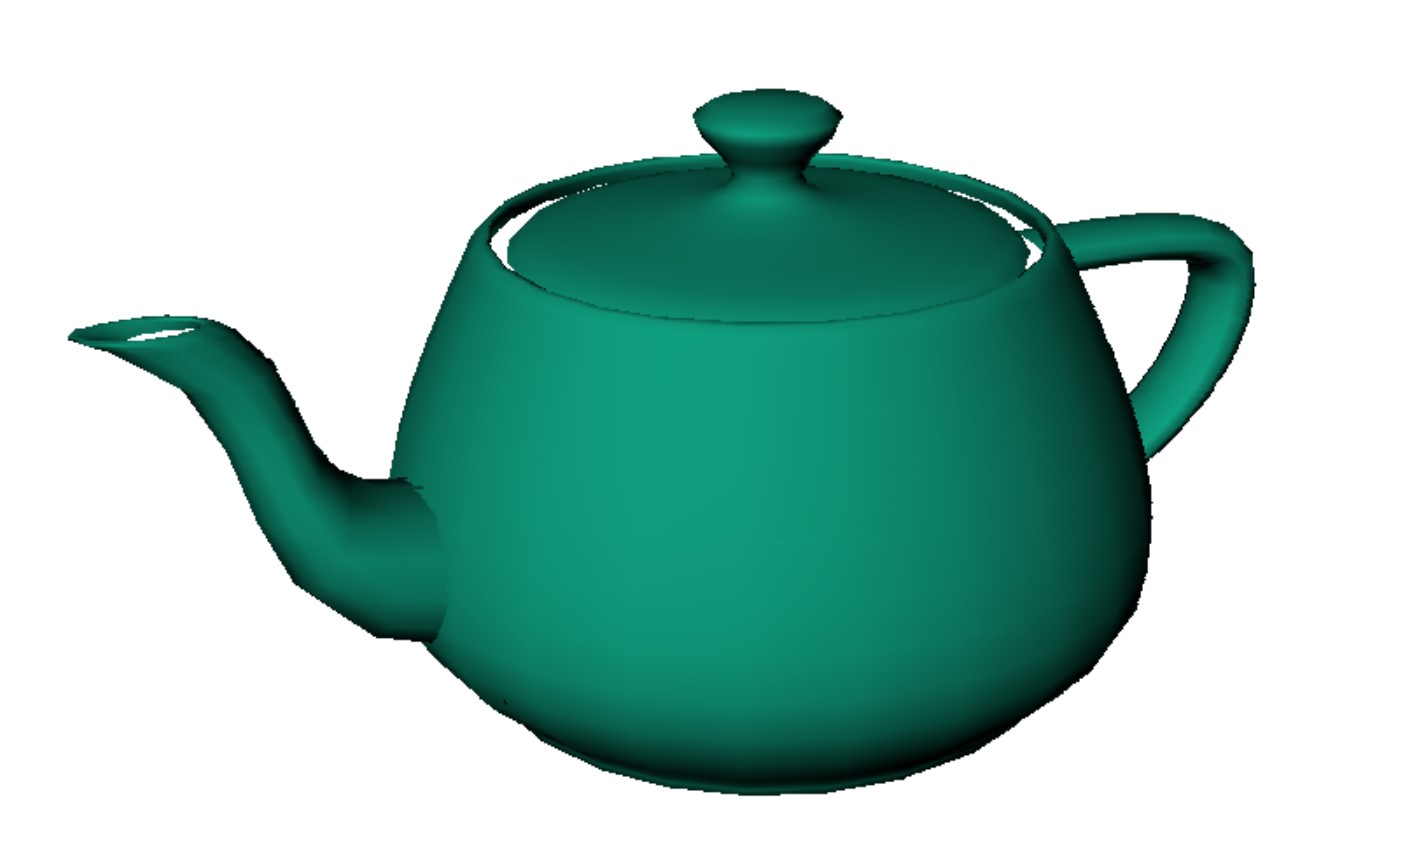
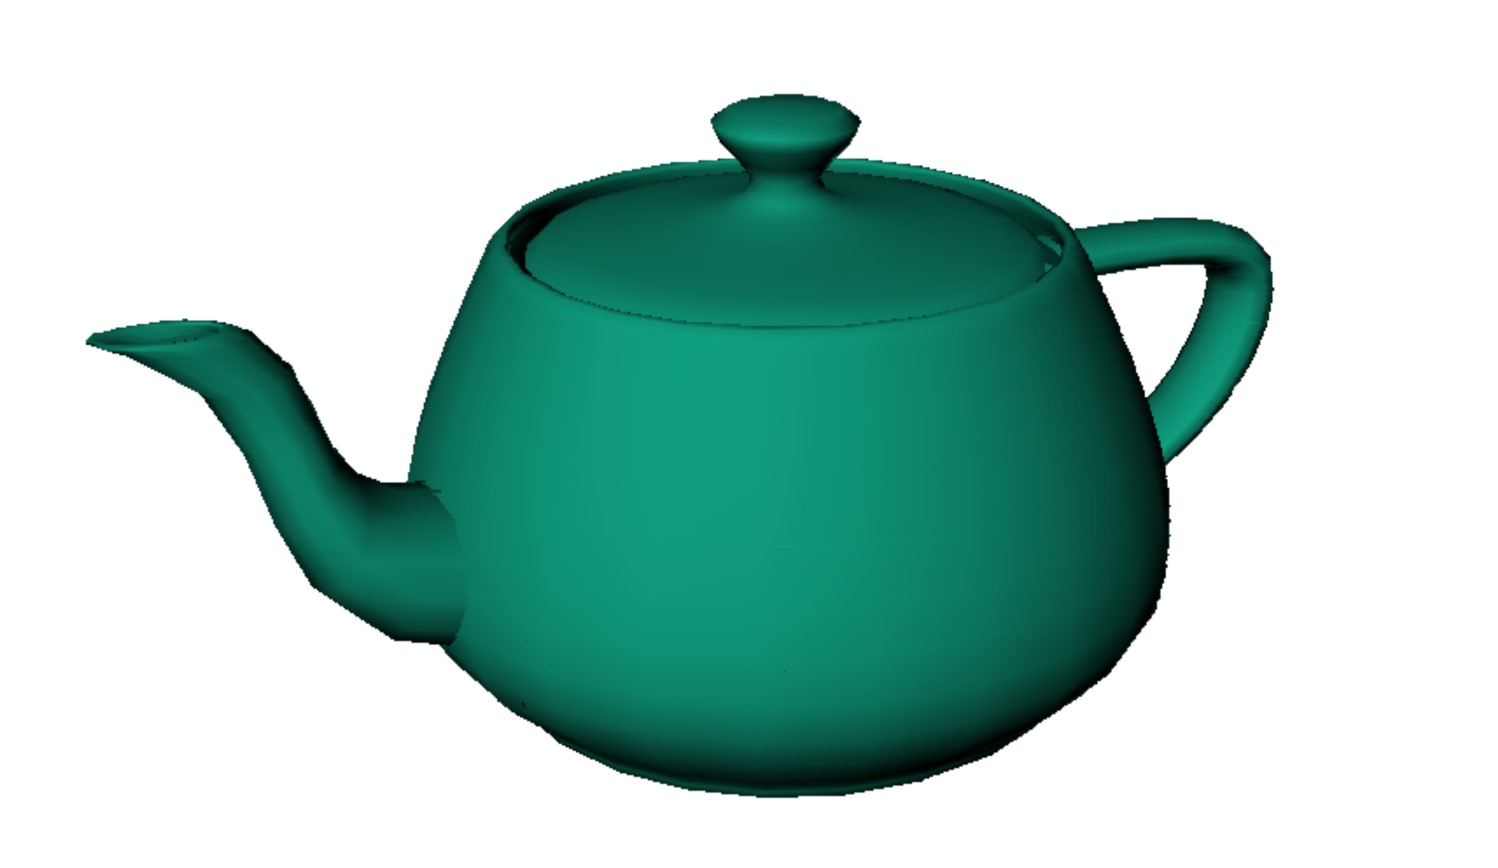
add sample images

diff --git a/Entrance.py b/Entrance.py
@@ -3,7 +3,7 @@ import SingleObject
 import Readfile 
 import Shading
 #	Loading file
-Points1,Polygons1, numofPolygon1=Readfile.readfile('D files/better-ball.d.txt')
+Points1,Polygons1, numofPolygon1=Readfile.readfile('D files/nteapot6.d.txt')
 #	Camera configuration
 c_pos=[5,5,10]
 p_ref=[0,0,0]
@@ -12,7 +12,8 @@ h=15
 f=80
 c=Camera.Camera(c_pos,p_ref,d,h,f)
 #	Object initialization
-object1=SingleObject.SingleObject(Points1,Polygons1,[0,0,0],numofPolygon1)
+object1=SingleObject.SingleObject(Points1,Polygons1,[0,-1,0],numofPolygon1)
+#	default backfaceculling is on
 object1.backfaceculling(c)
 object1.WorldtoScreen(c)
 object1.ScreentoDevices()
@@ -26,9 +27,11 @@ Shading.ka=0.4
 Shading.ks=1
 Shading.kd=0.6
 Shading.c_pos=c_pos
+#	Texture image
+Shading.imagefile='strip.jpg'
 # choose rendering
 
-rendering=2
+rendering=1
 if rendering==1:
 	Shading.Rendering.drawing(object1)
 elif rendering==2:

diff --git a/Shading.py b/Shading.py
@@ -62,7 +62,7 @@ def Phong(object1):
 
 def AddTexture(object1):
 	#data=Texture.textureimage()
-	image= Image.open('stripe.jpg')
+	image= Image.open(imagefile)
 	data=np.asarray(image)
 	#	interpolate vertex's normals
 	results=Interpolation.ScanConversion(object1)
